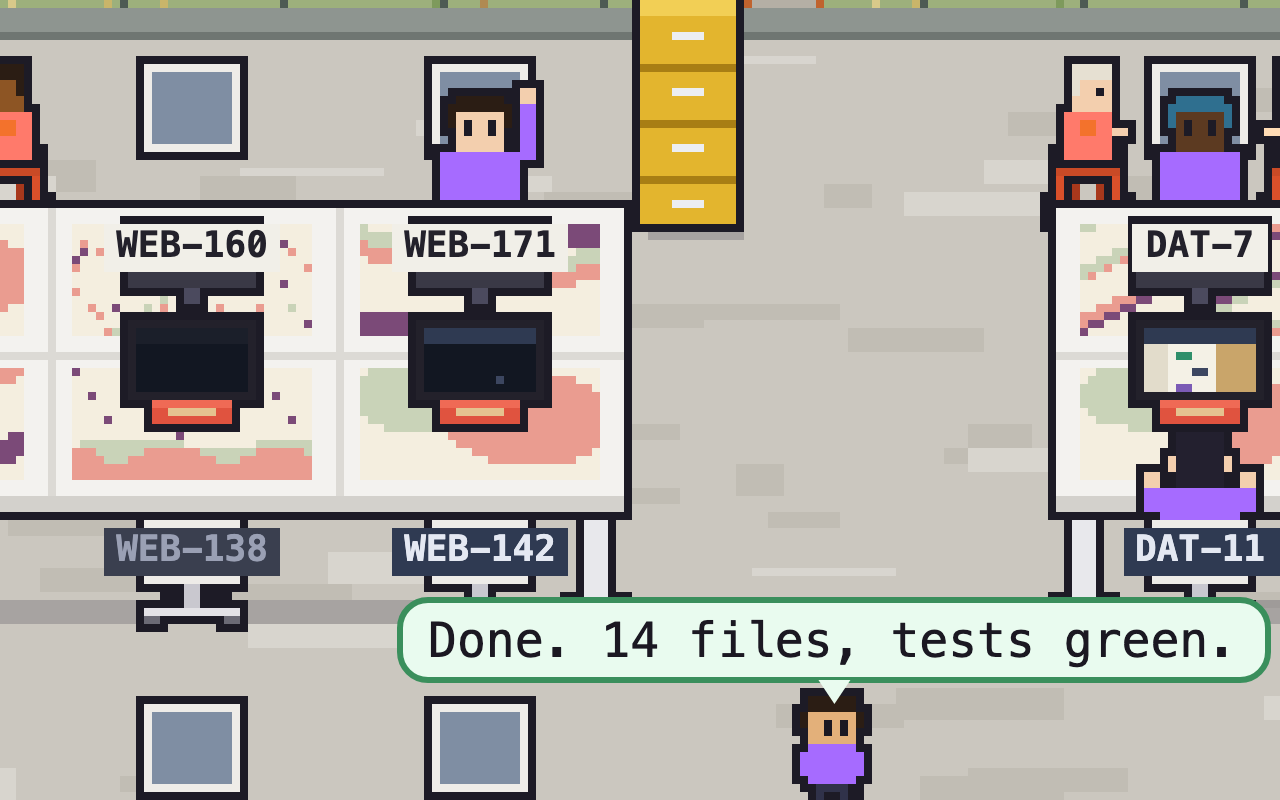
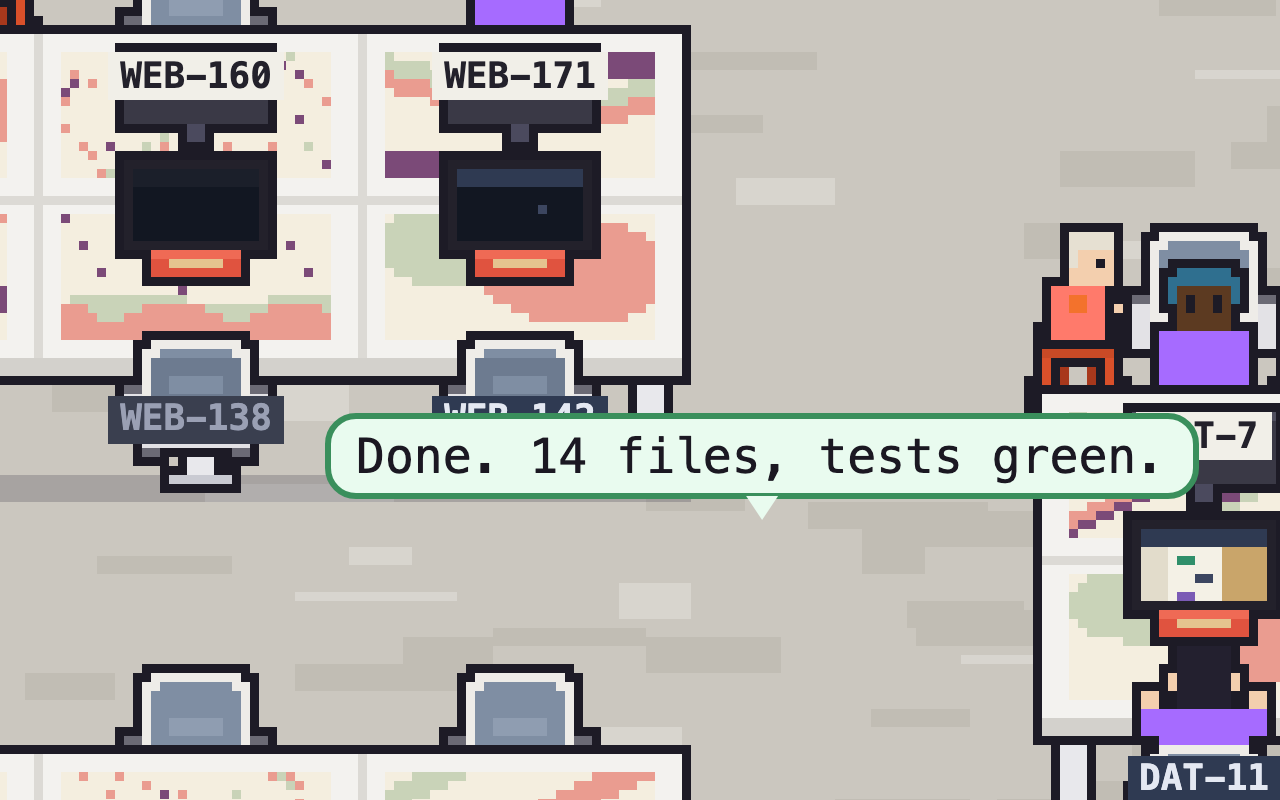
Retake the Loft screenshots; the README stays brief about the view
The README picture and the catalog's office, commons and desks shots are
rendered again from the made-up office, so they show the new window and
the tucked-in chairs. Same sizes as before; the office alt text follows.

diff --git a/README.md b/README.md
@@ -69,10 +69,8 @@ The Layout control picks the floor plan and the panel remembers it. The separate
 control toggles Dark for any layout. The office opens in the Loft with Dark off.
 
 - **Loft** shows the office from the front and above, like a doll's house with its front wall
-  taken off. It is set up like a real office in an old concrete hall: a double-height window onto a
-  paved path, two birches and a street of Eindhoven buildings, under blue sky or a moonlit star
-  field; one-row workstation bays where a worktree's desk has its computer and a spare desk stays
-  bare; and a fixed-height hangout docked at the bottom.
+  taken off. It is set up like a real office in an old concrete hall: a double-height window onto
+  the street, one-row workstation bays, and a fixed-height hangout docked at the bottom.
 - **Brick** is the flat office seen from straight above, as in the screenshot below and the
   pictures further down.
 - **Dark** is an appearance attribute rather than a layout. It adds the low-light, low-saturation
